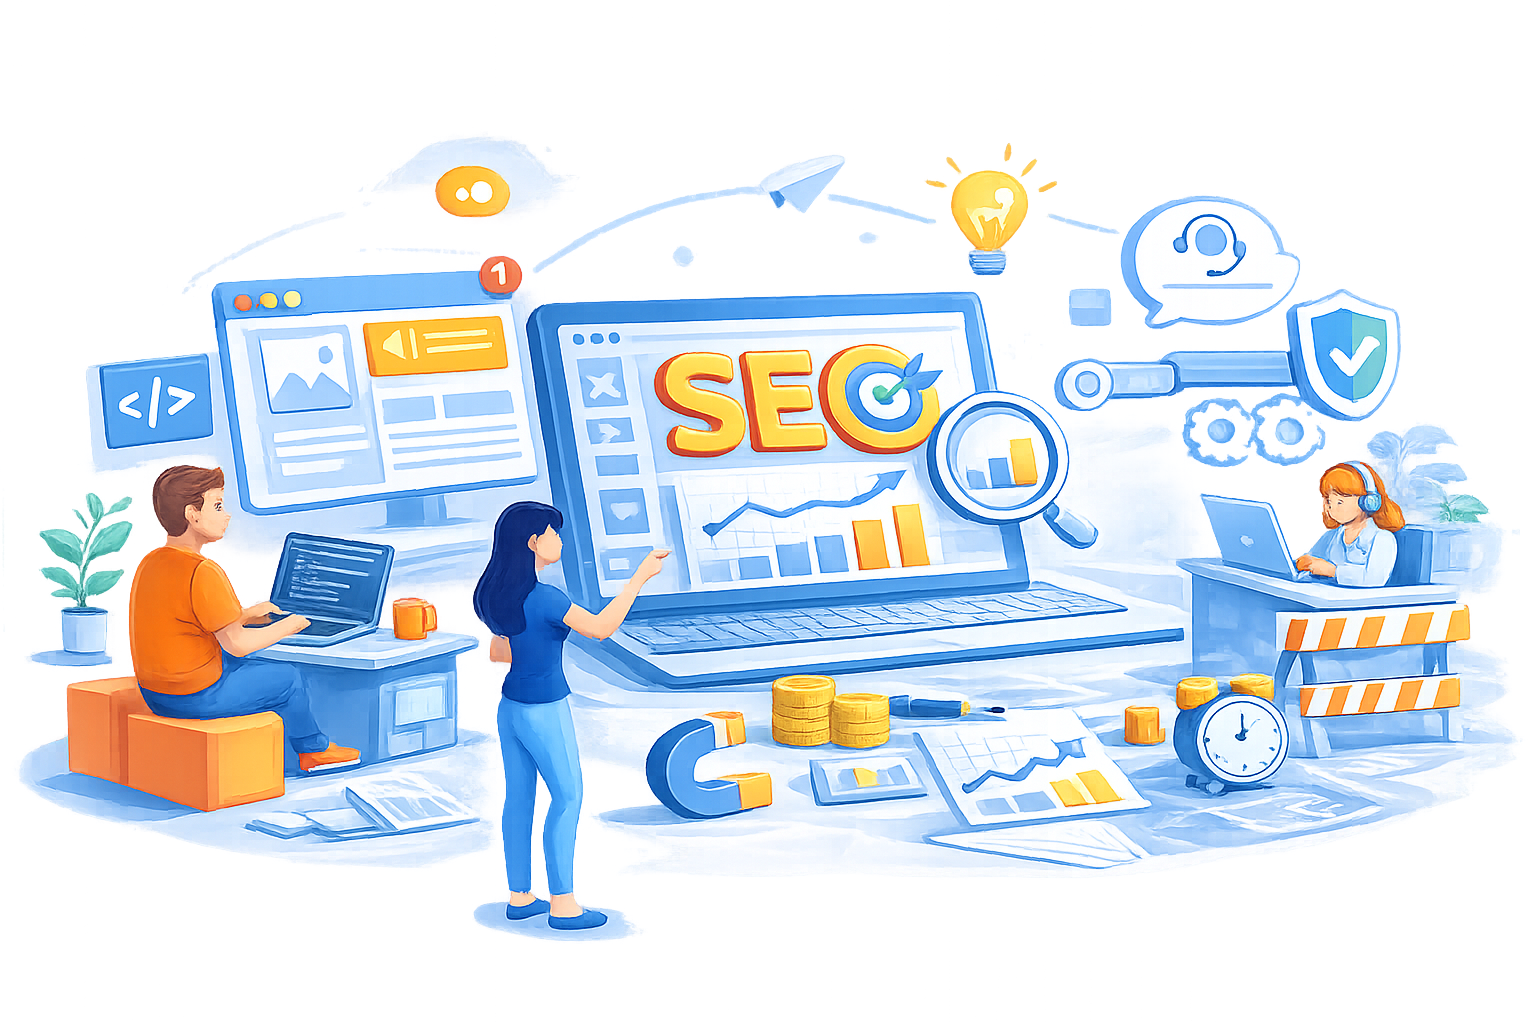
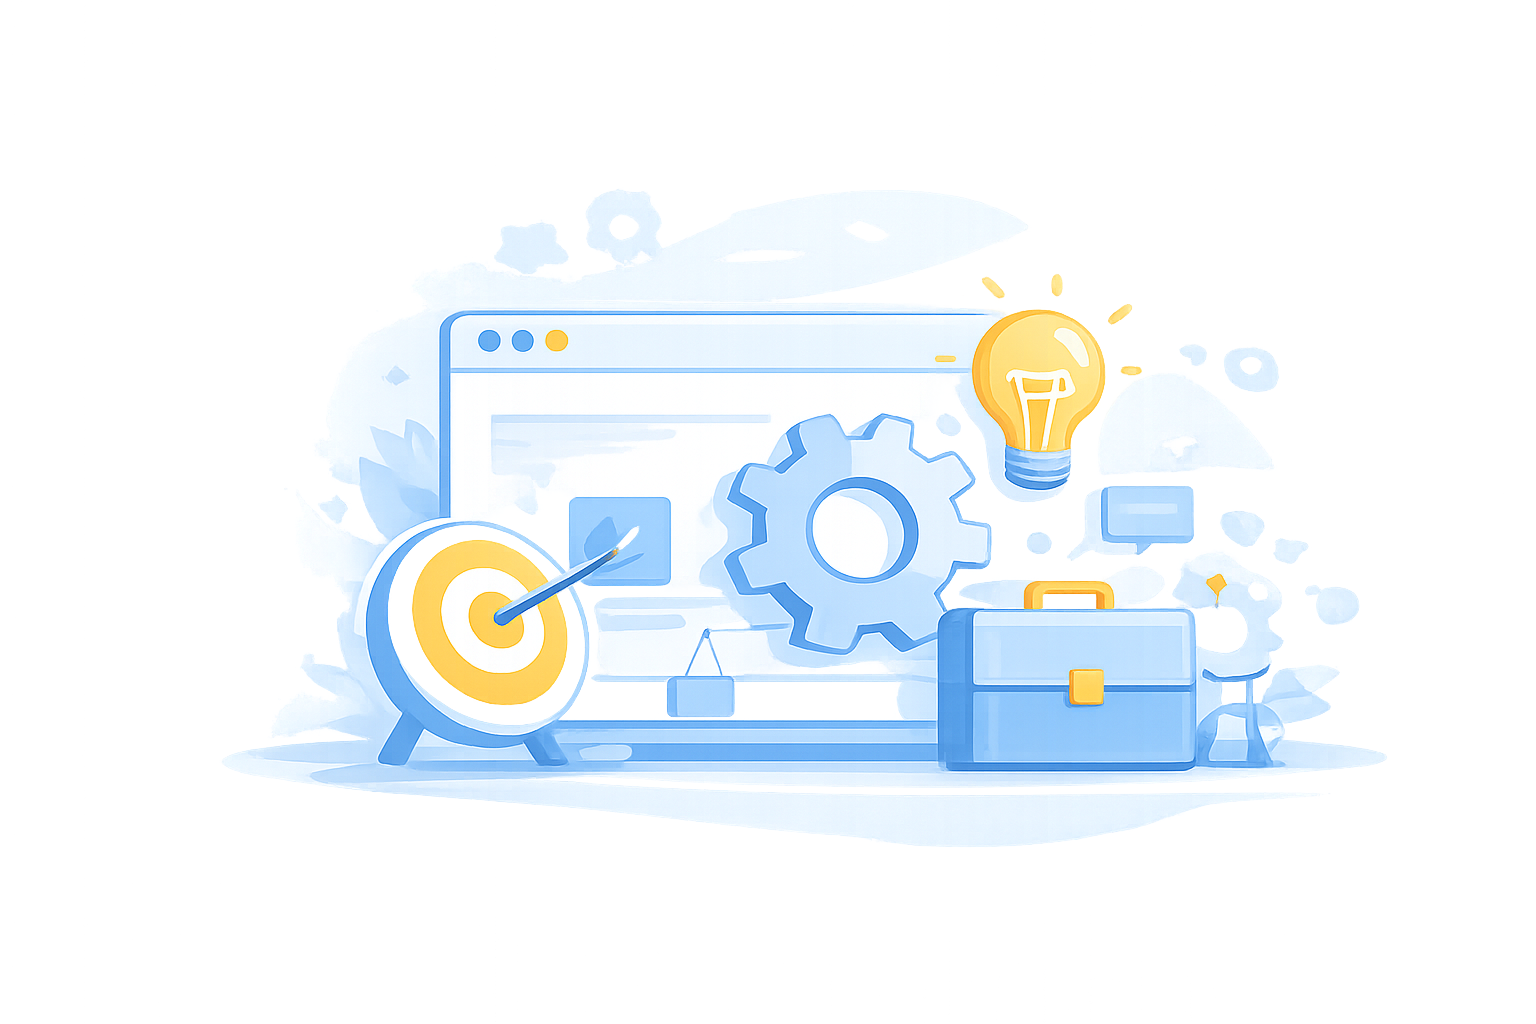
fixes

diff --git a/resources/views/services/show.blade.php b/resources/views/services/show.blade.php
@@ -64,7 +64,6 @@
 
 
 
-
     {{-- ================= ОПИСАНИЕ ================= --}}
     @if($service->content)
         <section class="wrapper bg-white py-24">
@@ -82,7 +81,7 @@
         <section class="wrapper !bg-[#f8f9fa] py-24">
             <div class="container">
 
-                <h2 class="text-3xl font-bold text-center mb-16 text-[#343f52]">
+                <h2 class="text-3xl font-bold text-center !mb-16 text-[#343f52]">
                     Типовые решения
                 </h2>
 
@@ -114,7 +113,7 @@
         <section class="wrapper bg-white py-24">
             <div class="container">
 
-                <h2 class="text-3xl font-bold text-center mb-16 text-[#343f52]">
+                <h2 class="text-3xl font-bold text-center !mb-16 text-[#343f52]">
                     Технологии
                 </h2>
 
@@ -188,7 +187,7 @@
         <section id="projects" class="wrapper bg-white py-24">
             <div class="container">
 
-                <h2 class="text-3xl font-bold text-center mb-16 text-[#343f52]">
+                <h2 class="text-3xl font-bold text-center !mb-16 text-[#343f52]">
                     Реализованные проекты
                 </h2>
 

diff --git a/resources/views/services/index.blade.php b/resources/views/services/index.blade.php
@@ -167,7 +167,7 @@
                     <!-- 02 -->
                     <div class="md:w-6/12 lg:w-3/12 xl:w-3/12 w-full flex-[0_0_auto] !px-[15px] xl:!px-[35px] lg:!px-[20px] !mt-[30px] max-w-full !relative after:w-full after:absolute after:content-[''] after:h-px after:z-[1] after:border-t-[rgba(164,174,198,0.2)] after:border-t after:border-solid after:left-[3rem] after:top-6 after:bg-inherit max-lg:after:!hidden">
 
-        <span class="icon btn btn-circle btn-lg btn-primary !text-white !bg-[#3f78e0] border-[#3f78e0] pointer-events-none !mb-4 !relative z-[2] w-12 h-12 inline-flex items-center justify-center !rounded-[100%]">
+        <span class="icon btn btn-circle btn-lg btn-soft-primary pointer-events-none !mb-4 !relative z-[2] w-12 h-12 inline-flex items-center justify-center !rounded-[100%]">
           <span class="number table-cell text-center align-middle text-[1.1rem] font-bold">
             02
           </span>
